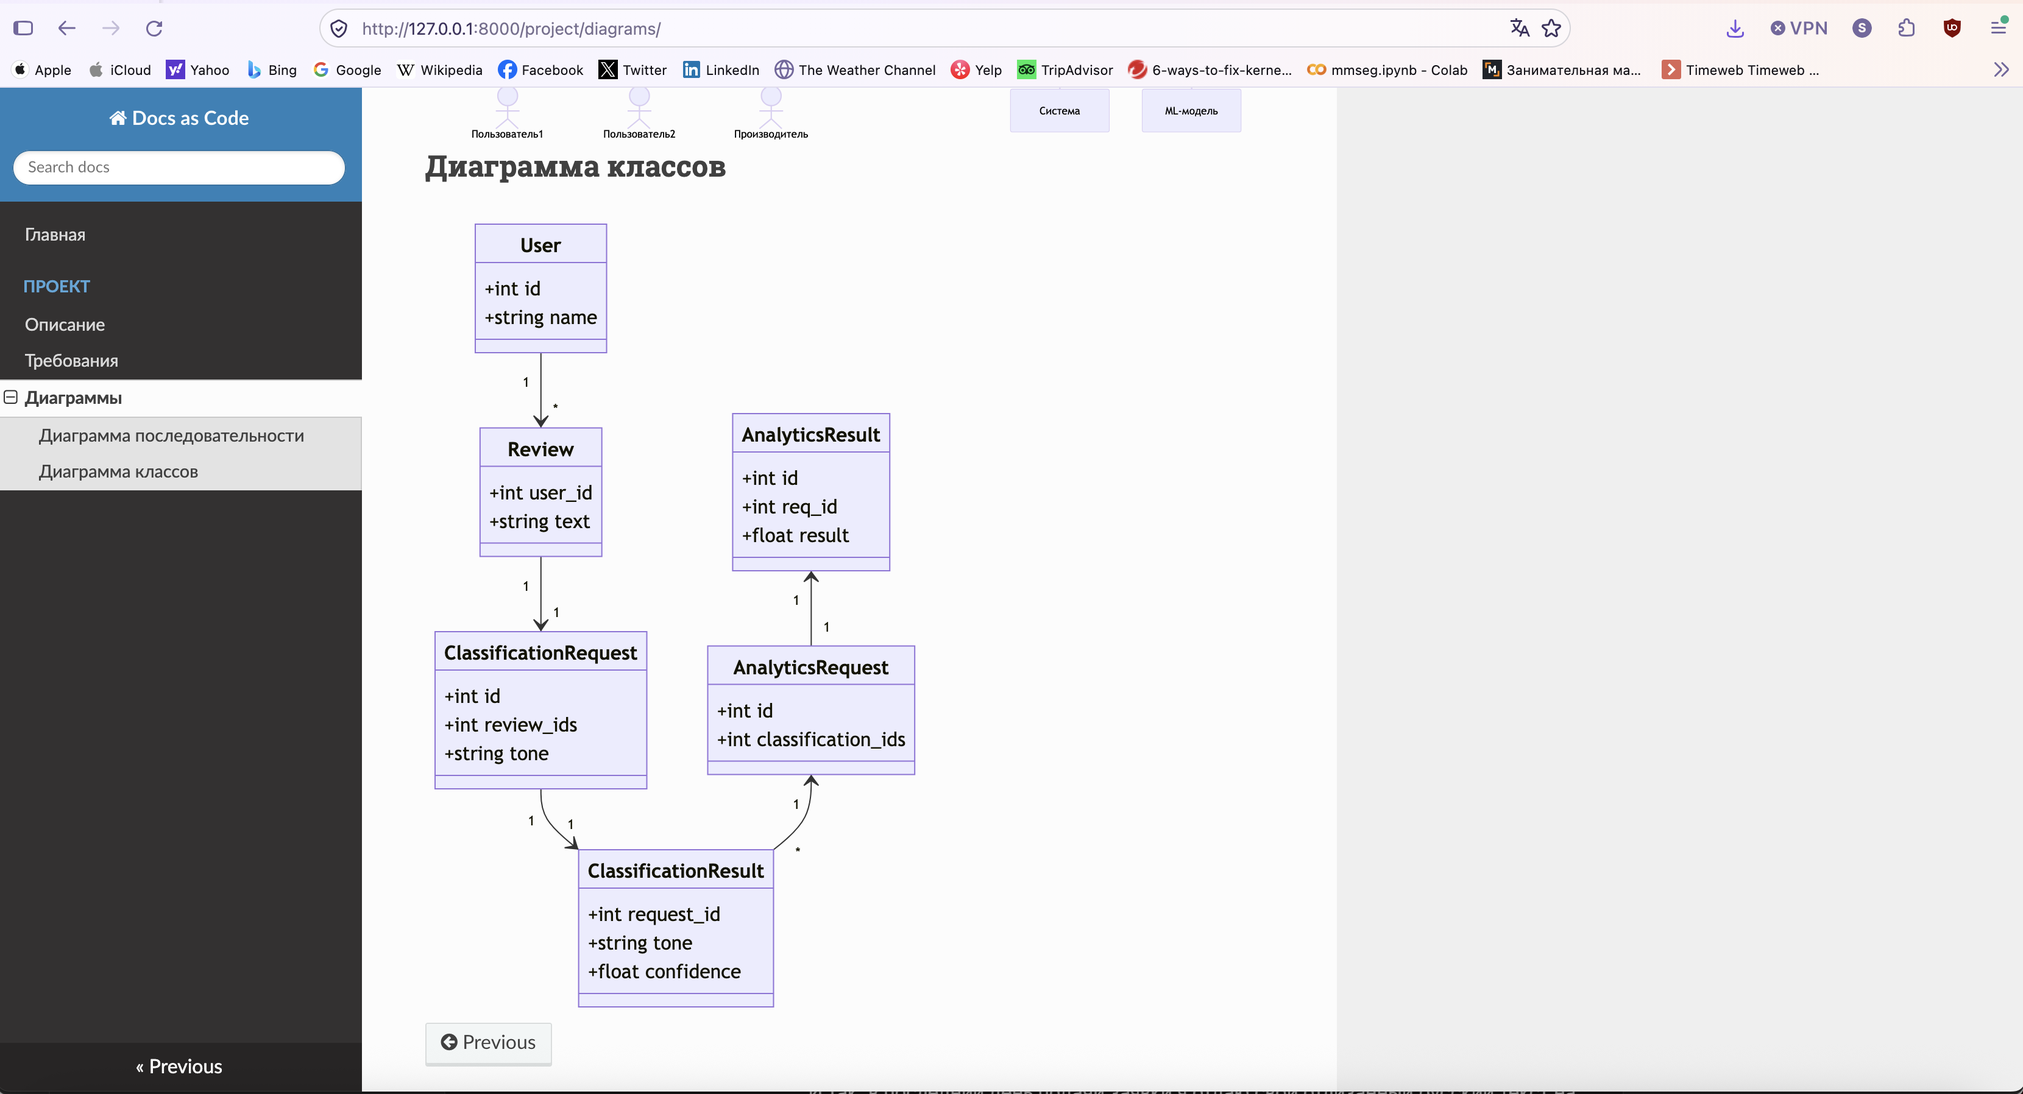
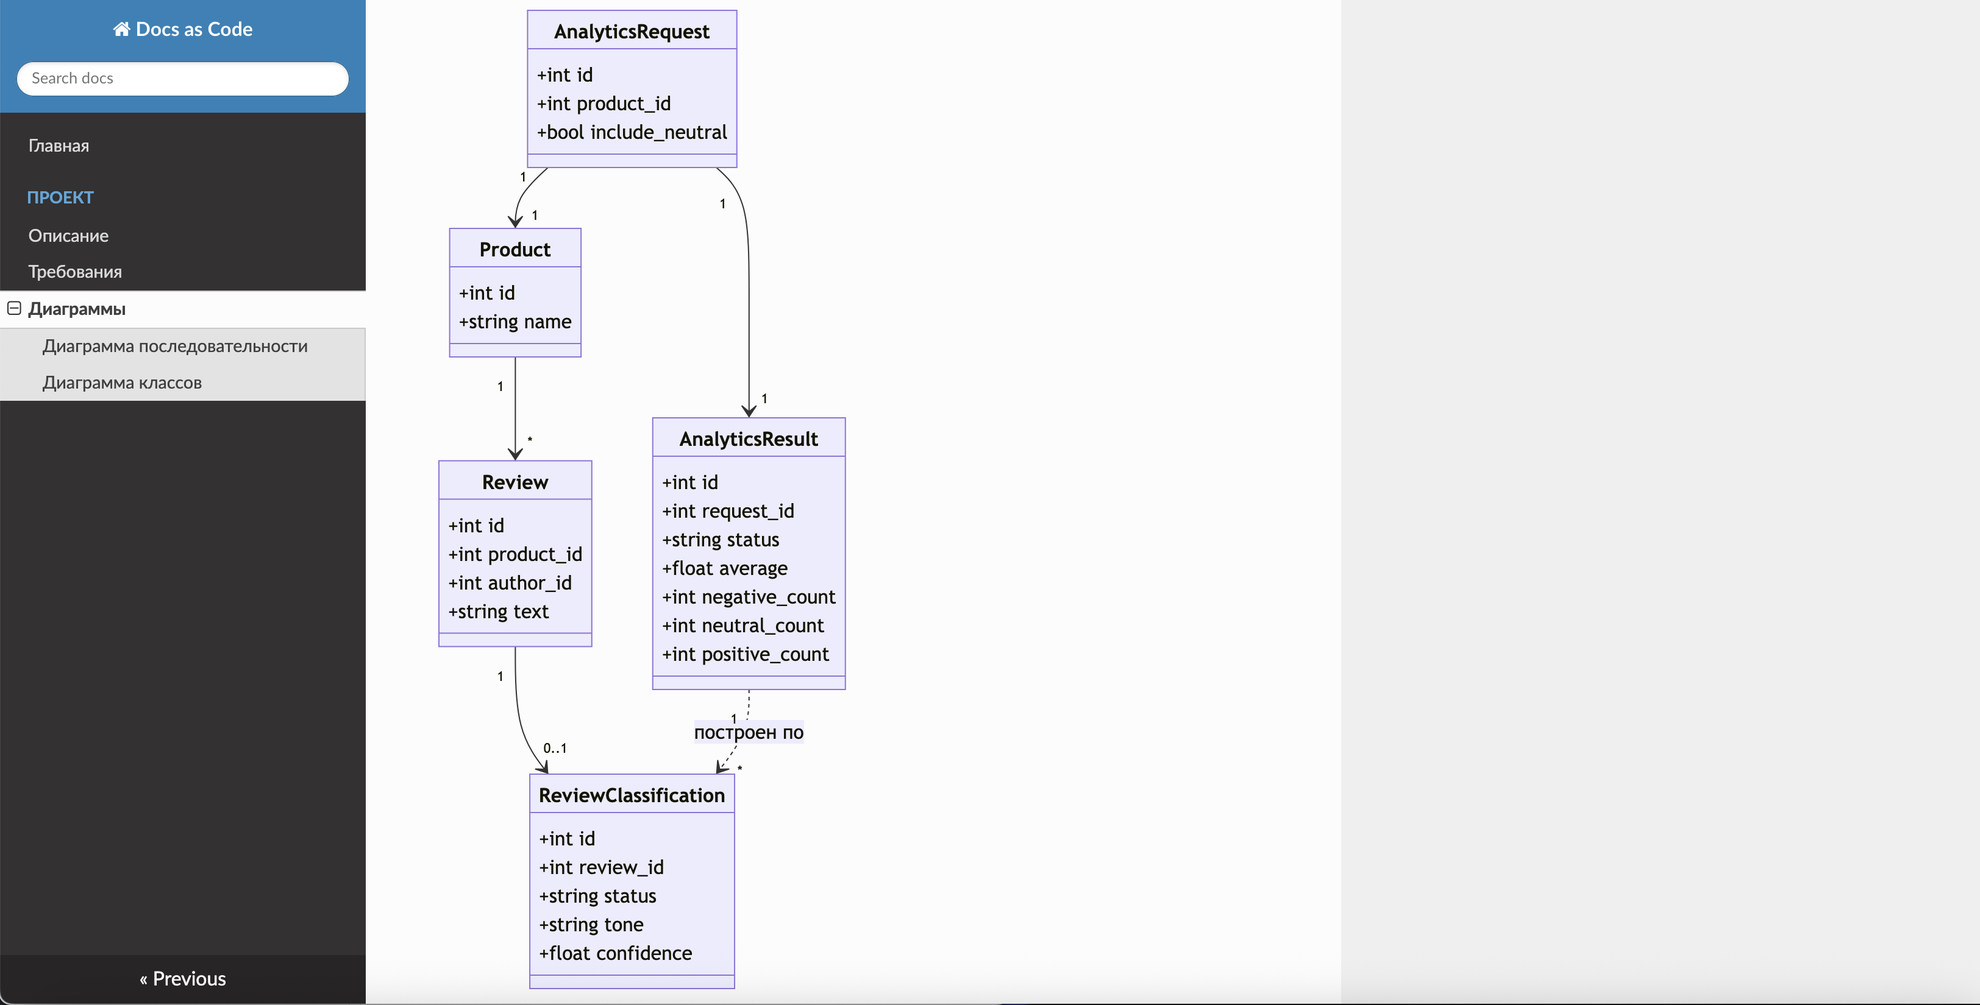
fixed Practice 2_1

diff --git a/docs/project/requirements.md b/docs/project/requirements.md
@@ -1,12 +1,18 @@
+# User Story 1
+
 Как производитель товара,
-я хочу видеть насколько хорошо оценен мой товар,
-чтобы ускорить процесс аналитики продаж.
+я хочу видеть распределение отзывов по тональности (сколько негативных, нейтральных и позитивных) и список отзывов, которые не удалось классифицировать,
+чтобы понимать, из чего складывается средняя оценка, и вручную проверить спорные отзывы.
 
-Критерий приемки:
+Критерии приемки:
 
-- система принимает текст отзыва/ов;
-- после обработки отображается категория/средние по всем отзывам. В случае среднего можно будет указать, учитывать ли вес нейтральных отзывов. Если да, то негативный отзыв считать за 0, позитивный за 2, а нейтральный за 1, считать как среднее арифметическое. Если нет, то необходимо делать то же самое, только нейтральный не учитывать при подсчете среднего арифметического;
-- Если классификация невозможна, пользователь получит сообщение об ошибке
+- после обработки система отображает количество и долю негативных, нейтральных и позитивных отзывов;
+- система отдельно показывает список отзывов, которые не удалось классифицировать, с текстом каждого отзыва;
+- отзывы, не вошедшие в классификацию, не учитываются при расчёте средней тональности;
+- производитель может отфильтровать список отзывов по тональности;
+- если отзывов для отображения нет, пользователь получает сообщение «Нет данных для отображения».
+
+# User Story 2
 
 Как интернет-магазин,
 я хочу дать пользователям возможность видеть общую картину отзывов о товарах на основе содержаний сообщений, а не только звезды, которые могут быть накручены пустыми отзывами,
@@ -15,41 +21,45 @@
 Критерий приемки:
 
 - система принимает текст отзыва/ов;
-- после обработки отображается категория/средние по всем отзывам. В случае среднего можно будет указать, учитывать ли вес нейтральных отзывов. Если да, то негативный отзыв считать за 0, позитивный за 2, а нейтральный за 1, считать как среднее арифметическое. Если нет, то необходимо делать то же самое, только нейтральный не учитывать при подсчете среднего арифметического;
+- после обработки отображается категория/средние по всем отзывам. В случае среднего можно будет указать, учитывать ли вес нейтральных отзывов. Если да, то негативный отзыв считать за 0, позитивный за 2, а нейтральный за 1, считать как среднее арифметическое. Если нет, то необходимо делать то же самое, только нейтральный не учитывать при подсчете среднего арифметического; В случае отсутствия позитивных и негативных отзывов, считать среднее как 0.
 - Если классификация невозможна, пользователь получит сообщение об ошибке
 
-Как разработчик,
-я хочу использовать заранее рабочий, эффективный и протестированный код для определения тона сообщения,
-чтобы не придумывать велосипед и не тратить своё время на то, что уже сделано.
+# User Story 3
 
-Критерий приемки:
+Как покупатель интернет-магазина,
+я хочу видеть на странице товара оценку, рассчитанную по содержанию отзывов, и долю позитивных, нейтральных и негативных отзывов,
+чтобы принять решение о покупке на основе реального мнения других покупателей, а не только звёздного рейтинга.
 
-- система протестирована на [датасете](https://huggingface.co/datasets/MonoHime/ru_sentiment_dataset/viewer/default/validation) и результаты можно увидеть.
-- Наличие схемы для оценки качества модели, которая содержит матрицу ошибок, основные метрики(F1, accuracy, precision, recall, 3 ROC кривые типа one vs rest) на основании тестовой выборки из предыдущего пункта
-- Метрика F1 >= 88% для множественной классификации на той же тестовой выборке.
+Критерии приемки:
 
-UC-01. Анализ отзыва
+- на странице товара отображается средняя тональность отзывов рядом со звёздным рейтингом;
+- отображается доля позитивных, нейтральных и негативных отзывов в процентах;
+- отзывы, которые не удалось классифицировать, не учитываются в расчёте;
+- если для расчёта недостаточно отзывов, вместо оценки отображается сообщение «Недостаточно данных для расчёта»;
+- оценка обновляется после добавления нового отзыва.
+
+
+# UC-01 Анализ тональности отзывов о товаре
 
 Актор: Производитель или поставщик товара
 
-Цель: определить средние по палате тоны отзывов о товаре
+Цель: получить среднюю тональность отзывово о товаре
 
-Предусловие: пользователи оставили много отзывов
+Предусловие: по товару есть один или несколько текстовых отзывов
 
 Основной сценарий:
 
-1. Заранее написанная система получает отзывы пользователя
-2. Через API ПО передает текст отзыва ML-модели.
-3. ML-модель определяет тон.
-4. Система получает результат.
-5. Производитель видит среднюю реакцию пользователей о товаре.
+1. Производитель загружает отзывы о товаре.
+2. Производитель выбирает способ расчёта: учитывать нейтральные отзывы или нет.
+3. Система передаёт тексты отзывов ML-модели по API.
+4. ML-модель определяет тональность каждого отзыва (негативная, нейтральная, позитивная).
+5. Система выполняет UC-04 (расчёт средней тональности).
+6. Система отображает тональность каждого отзыва и среднюю тональность по товару.
 
 Альтернативный сценарий:
 
-Если модель не может обработать текст, система сообщает,
-что требуется ручная классификация.
+4а. Модель не может классифицировать отзыв: он помечается «не классифицирован», исключается из расчёта и остаётся доступным для ручной проверки.
 
-Результат: категория обращения определена или обращение передано на ручную обработку.
+5а. UC-04 вернул «Недостаточно данных для расчёта»: система показывает это сообщение вместо средней тональности.
 
- Review "*" --> "1" AnalysisRequest
-AnalysisRequest "1" --> "1" ClassificationResult -->
+Результат: производитель видит среднюю тональность отзывов и список неклассифицированных отзывов.

diff --git a/docs/project/diagrams.md b/docs/project/diagrams.md
@@ -6,70 +6,81 @@
 
 ```mermaid
 sequenceDiagram
-    actor User1 as Пользователь1
-    actor User2 as Пользователь2
-    actor User_l as Производитель
-
-    participant System_prep as Система 
+    actor Producer as Производитель
+    participant System as Система
     participant Model as ML-модель
 
+    Producer->>System: 1. Загрузить отзывы о товаре
+    Producer->>System: 2. Выбрать способ расчёта (с нейтральными / без)
 
-    User1->>System_prep: Отправить отзыв
-    System_prep->>Model: Передать отзыв
-    Model-->>System_prep: Вернуть тон
+    loop 3-4. Для каждого отзыва
+        System->>Model: Передать текст отзыва по API
+        alt отзыв классифицирован
+            Model-->>System: Вернуть тональность (негативная / нейтральная / позитивная)
+        else 4а. не удалось классифицировать
+            Model-->>System: Ошибка классификации
+            System->>System: Пометить «не классифицирован», исключить из расчёта
+        end
+    end
 
-    User2->>System_prep: Отправить отзыв
-    System_prep->>Model: Передать отзыв
-    Model-->>System_prep: Вернуть тон
+    Note over System: 5. Расчёт средней тональности (UC-04)
+    System->>System: Исключить неклассифицированные отзывы
+    System->>System: Посчитать количество и долю по тональностям
+    System->>System: Сопоставить значения: негативная = 0, нейтральная = 1, позитивная = 2
+    System->>System: Если выбран способ «без нейтральных», исключить нейтральные
 
-    User_l->>System_prep: Запросить аналитику
-    System_prep-->>User_l: Показать средний тон по отправленным отзывам
+    alt в выборке есть хотя бы один отзыв
+        System->>System: Вычислить среднее арифметическое
+        System-->>Producer: 6. Тональность каждого отзыва, средняя тональность, распределение
+    else 5а. выборка пуста
+        System-->>Producer: 6. Тональность каждого отзыва и сообщение «Недостаточно данных для расчёта»
+    end
+
+    System-->>Producer: Список неклассифицированных отзывов для ручной проверки
 ```
-## Диаграмма классов
 
+## Диаграмма классов
 ```mermaid
 classDiagram
-
-    class User {
+    class Product {
         +int id
         +string name
     }
 
     class Review {
-        +int user_id
+        +int id
+        +int product_id
+        +int author_id
         +string text
     }
 
-    class ClassificationRequest {
+    class ReviewClassification {
         +int id
-        +int review_ids
-        +string tone
-    }
-
-    class ClassificationResult {
-        +int request_id
+        +int review_id
+        +string status
         +string tone
         +float confidence
     }
 
     class AnalyticsRequest {
         +int id
-        +int classification_ids
+        +int product_id
+        +bool include_neutral
     }
 
     class AnalyticsResult {
         +int id
-        +int req_id
-        +float result
+        +int request_id
+        +string status
+        +float average
+        +int negative_count
+        +int neutral_count
+        +int positive_count
     }
 
-    User "1" --> "*" Review
-    Review "1" --> "1" ClassificationRequest
-    ClassificationRequest "1" --> "1" ClassificationResult
-    AnalyticsRequest "1" <-- "*" ClassificationResult
-    AnalyticsResult "1" <-- "1" AnalyticsRequest
-
-
-
-
+    Product "1" --> "*" Review
+    Review "1" --> "0..1" ReviewClassification
+    AnalyticsRequest "1" --> "1" Product
+    AnalyticsRequest "1" --> "1" AnalyticsResult
+    AnalyticsResult "1" ..> "*" ReviewClassification : построен по
 ```
